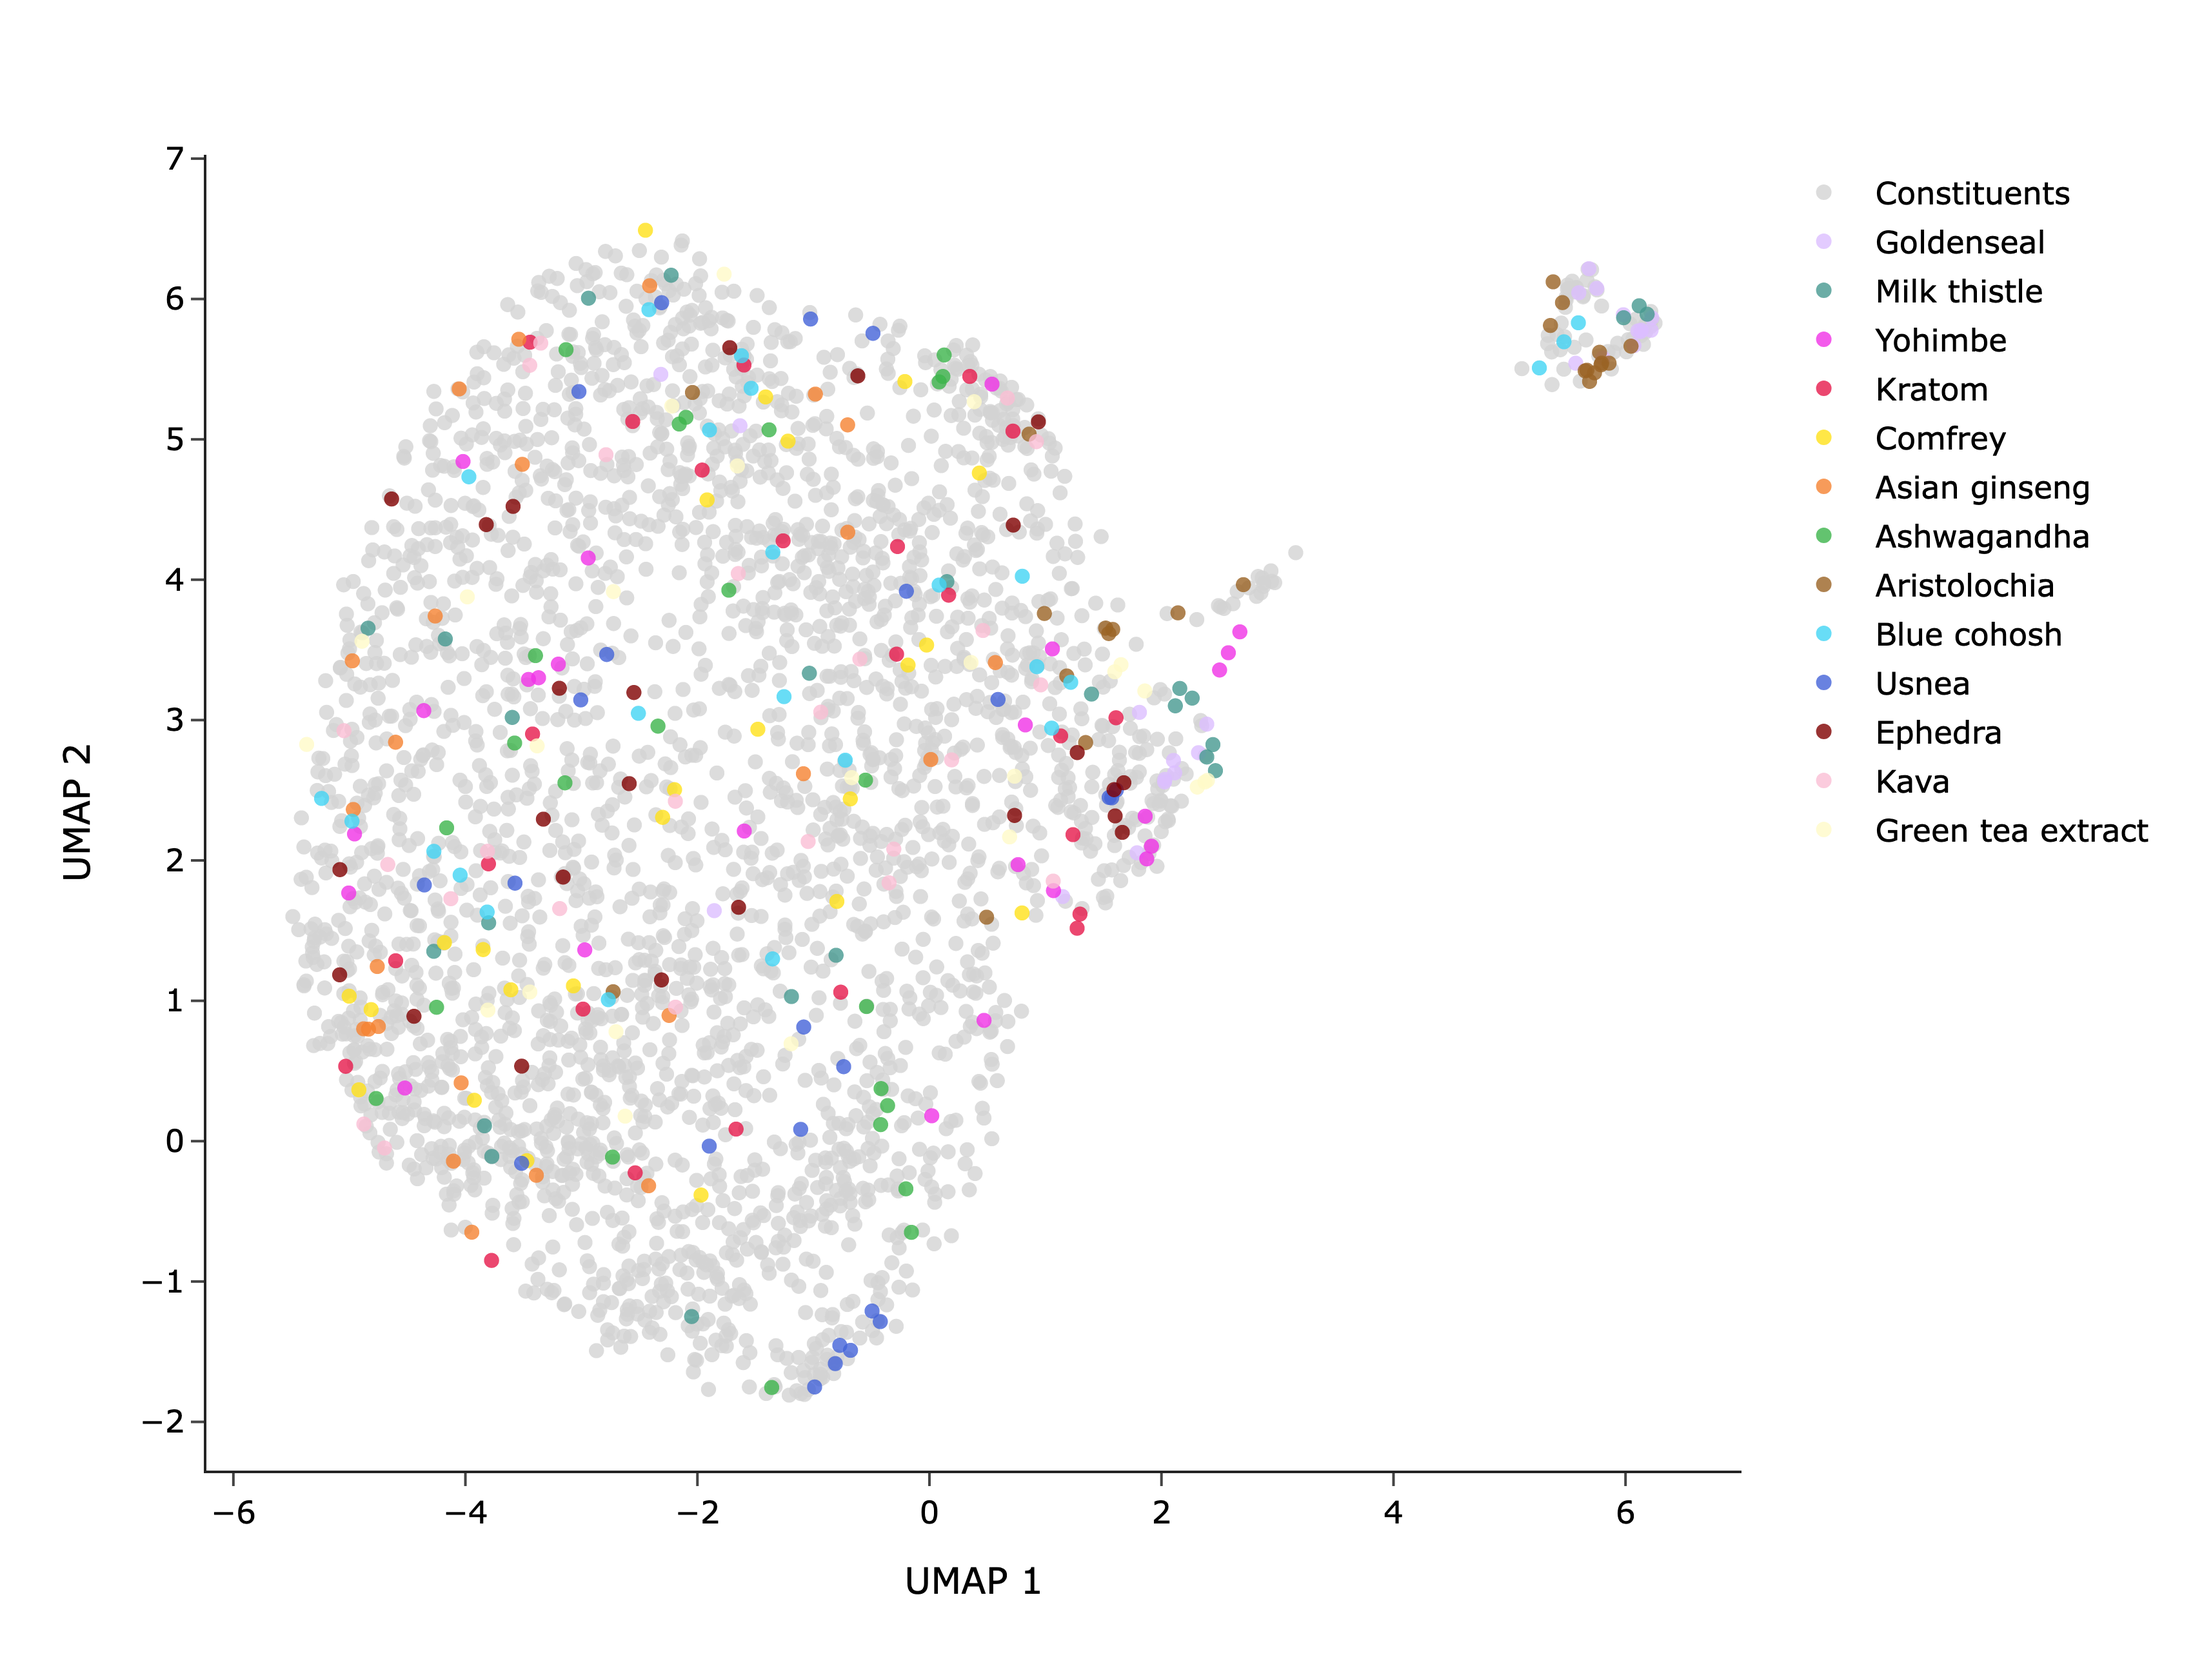
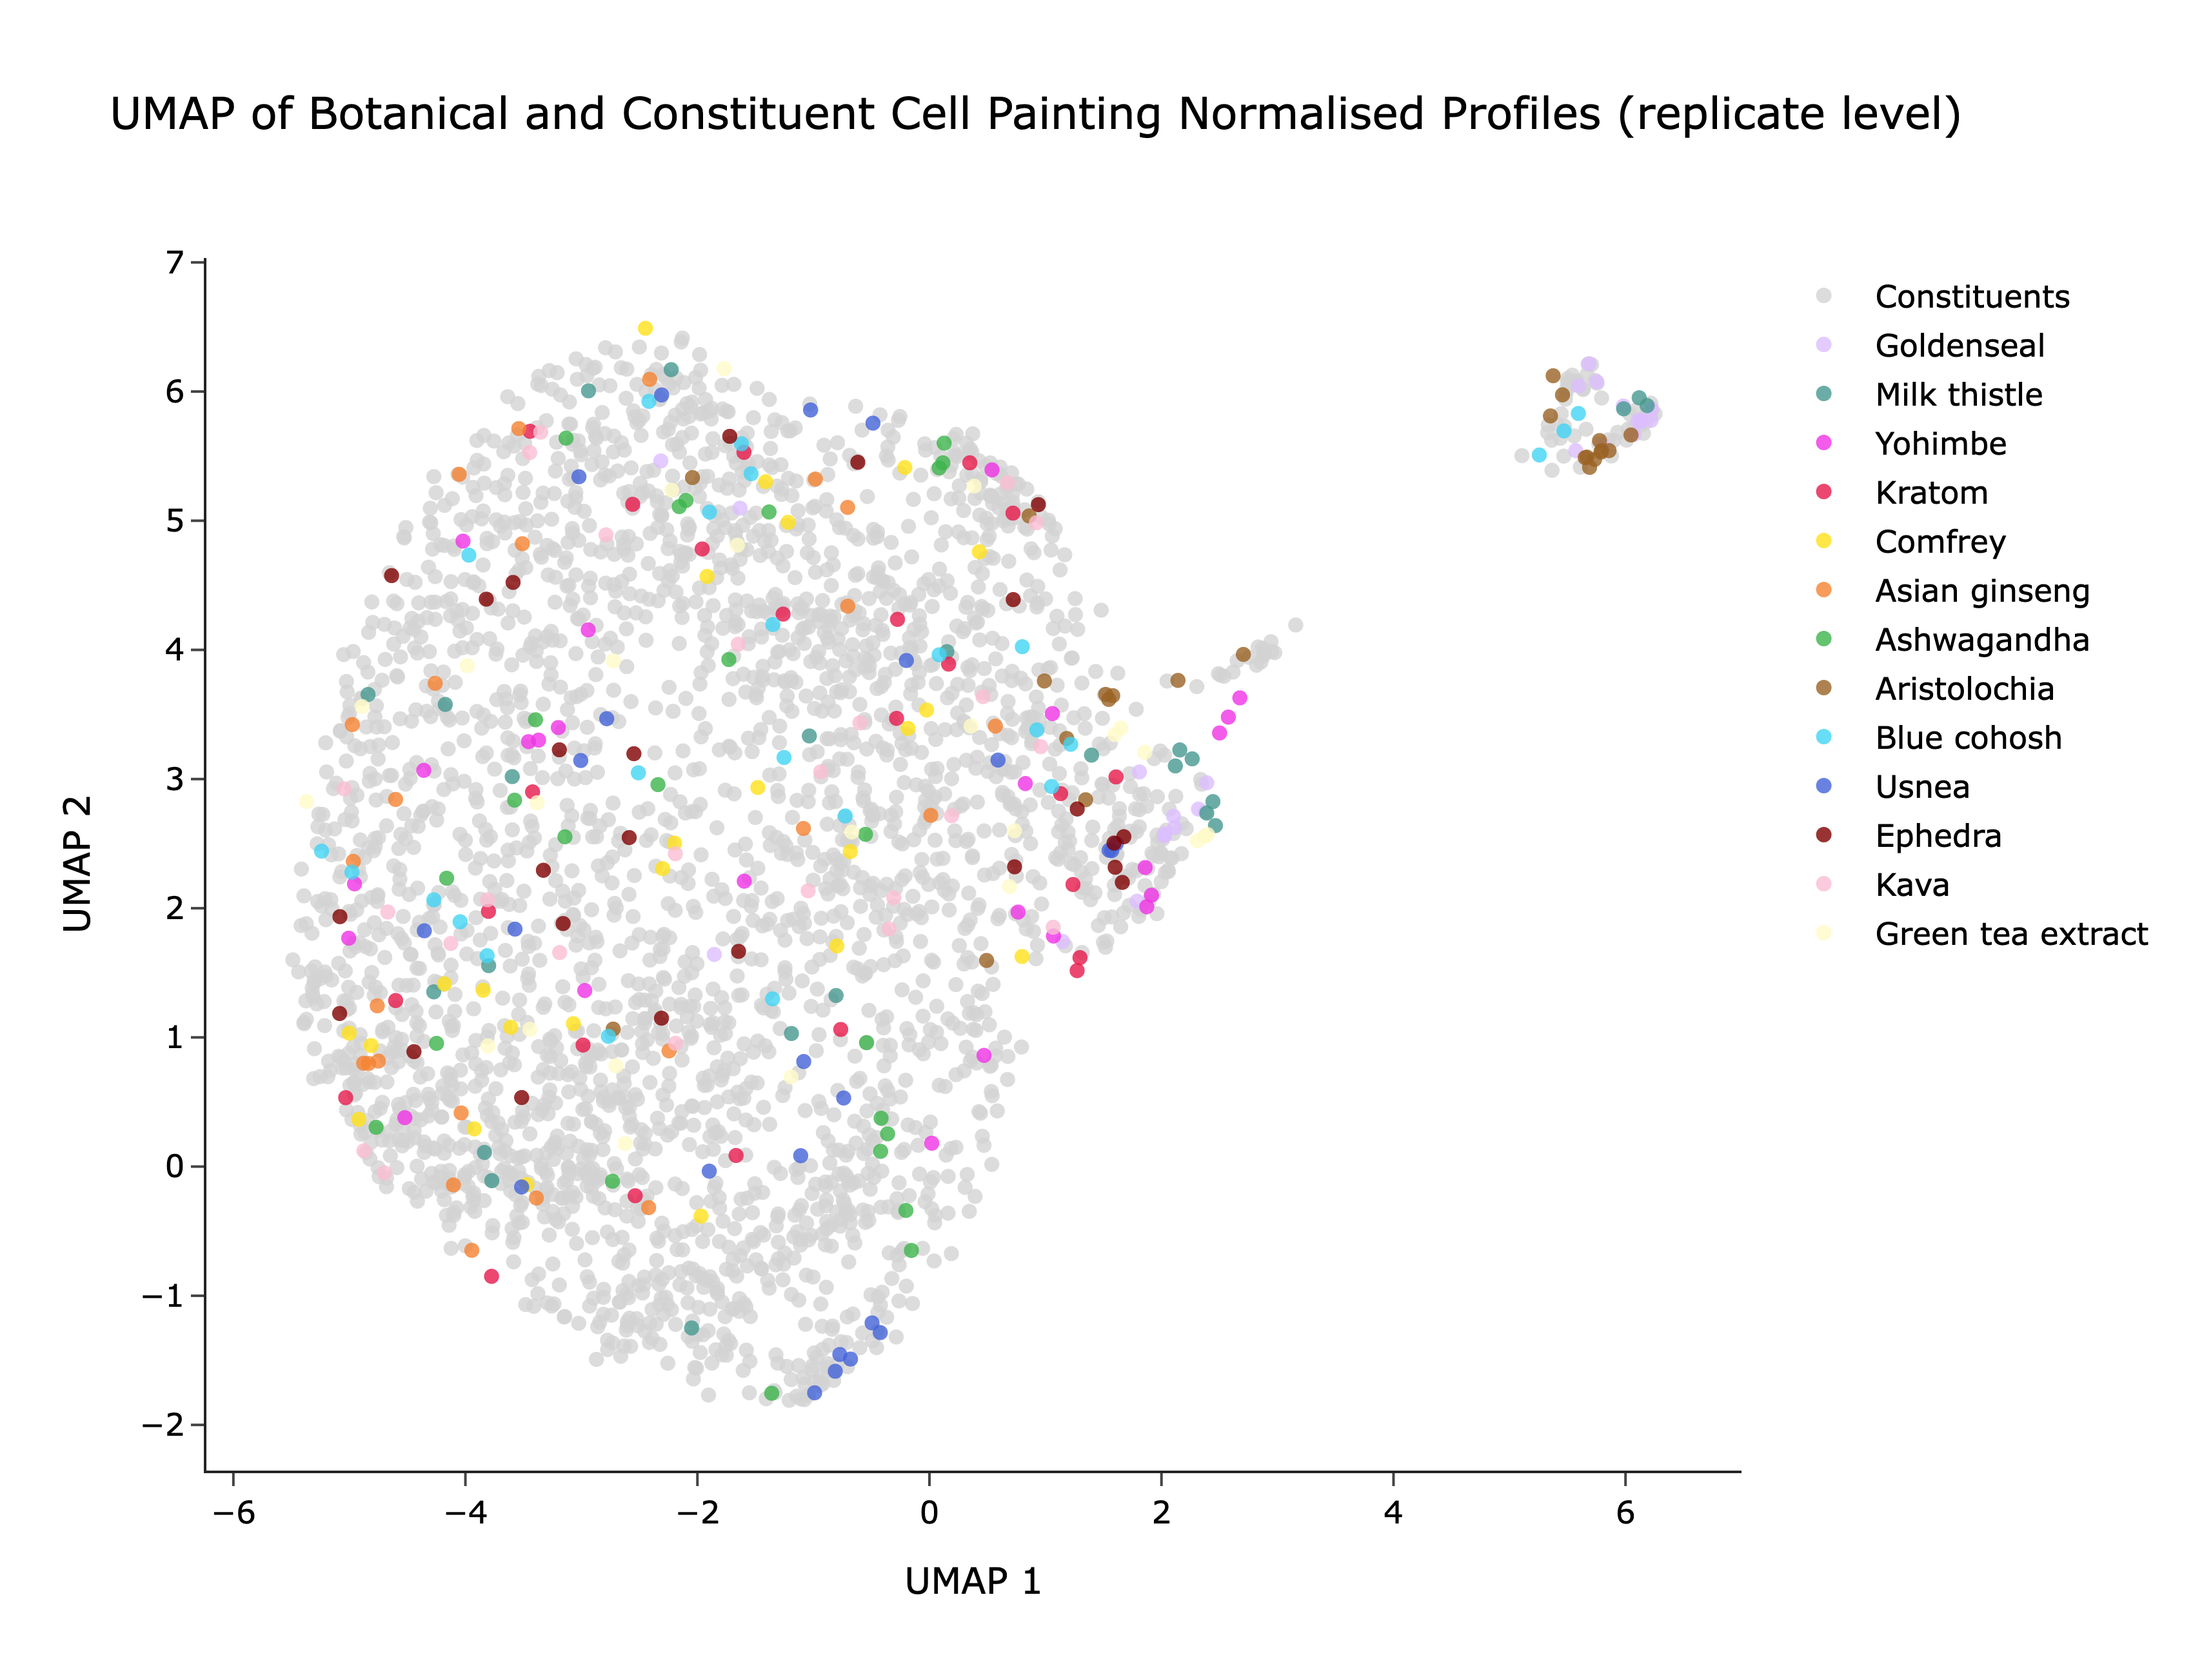
figure names

diff --git a/modules/07_downstream_analysis/notebook_manuscript/6_bsc_analysis.marimo.py b/modules/07_downstream_analysis/notebook_manuscript/6_bsc_analysis.marimo.py
@@ -46,8 +46,8 @@ def _():
         mticker,
         np,
         os,
-        pd,
         p_values,
+        pd,
         plt,
         px,
         sns,
@@ -716,7 +716,7 @@ def _(botanical_colors, df_umap_bsc_4_plot, figure_dir, px):
         x="UMAP_1",
         y="UMAP_2",
         color="plot_group",
-        title="",
+        title="UMAP of Botanical and Constituent Cell Painting Normalised Profiles (replicate level)",
         opacity=0.8,
         width=850,
         height=650,
@@ -4520,7 +4520,7 @@ def _(
         "mAP Level 4 compounds after POD filter: "
         f"{df_level4_bsc_map_pod['Metadata_compound'].nunique()}"
     )
-    return df_level4_bsc_map_input, df_level4_bsc_map_pod
+    return (df_level4_bsc_map_pod,)
 
 
 @app.cell
@@ -4612,7 +4612,7 @@ def _(
     print(f"mAP feature matrix shape: {bsc_map_profiles.shape}")
     print(f"mAP AP rows: {len(activity_ap_bsc_map)}")
     print(f"mAP AP below p<0.05: {activity_ap_bsc_map['below_p'].mean():.2%}")
-    return activity_ap_bsc_map, bsc_map_metadata, bsc_map_profiles
+    return (activity_ap_bsc_map,)
 
 
 @app.cell

diff --git a/modules/07_downstream_analysis/notebook_manuscript/5_axiom_bsc_analysis.marimo.py b/modules/07_downstream_analysis/notebook_manuscript/5_axiom_bsc_analysis.marimo.py
@@ -832,7 +832,7 @@ def _(
     # ── Build two-panel figure ────────────────────────────────────────────────────
     _fig = make_subplots(
         rows=1, cols=2,
-        subplot_titles=["<b>A</b>  Level 5 profiles", "<b>B</b>  Level 6 profiles"],
+        subplot_titles=["<b>A</b>  Profiles aggregated at the concentration level", "<b>B</b>  Profiles aggregated at the compound level"],
         horizontal_spacing=0.08,
     )
 
